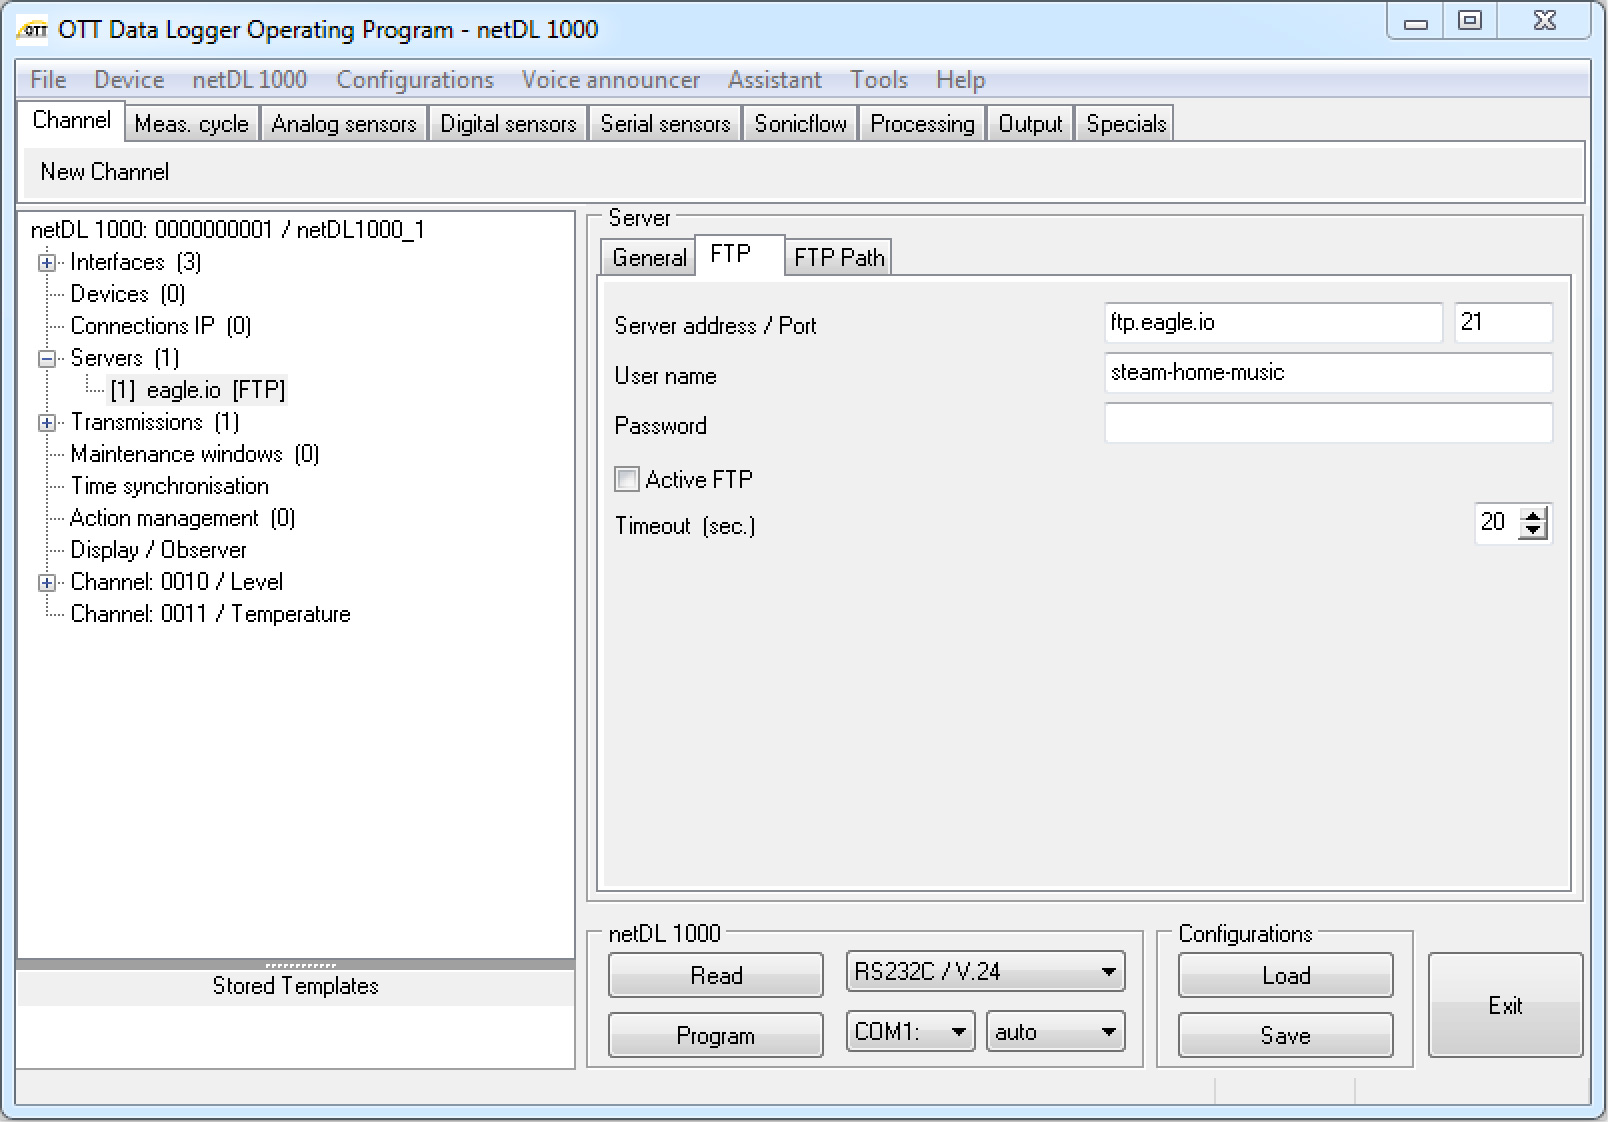
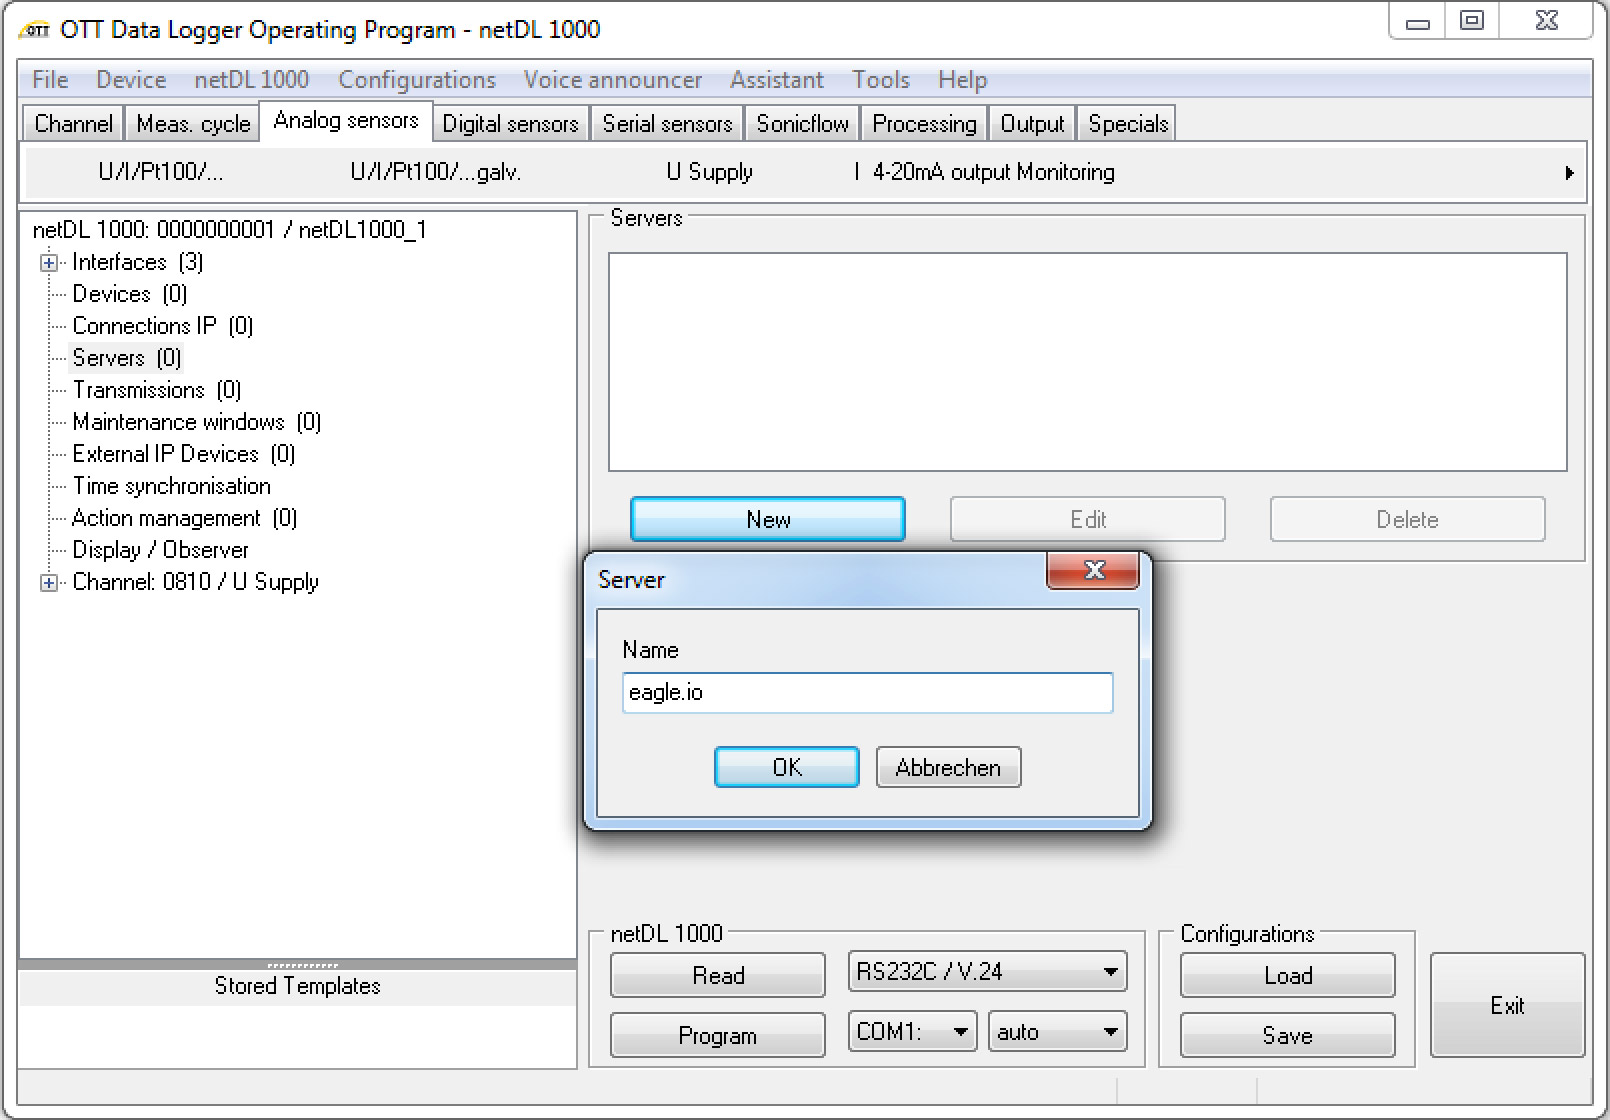
update OTT netDL device configuration guide

Changed region(s): [[0.0, 0.0, 1.0, 1.0]]

diff --git a/source/topics/device_configuration/ott_netdl/index.rst b/source/topics/device_configuration/ott_netdl/index.rst
@@ -144,20 +144,7 @@ Use the OTT Data Logger Operating Program to configure the netDL logger for comm
 
     .. image:: ott_netdl_device_1.jpg
 
-The following settings should be assigned to the FTP section:
-
-Server address
-    ftp.eagle.io
-Port
-    21
-User name
-    Use the unique *FTP user* generated during Data Source creation.
-Password
-    Use the password you assigned during Data Source creation (or leave blank for none).
-FTP Path 
-    Leave blank
-
-2. Create a new *Transmission* (Transmission Internet) and configure the *Server 1* option to use the Server item created in the previous step. Navigate to the *Data Transmission* tab and specify the data transmission cycle for frequency of uploads. Set the *Data format* to *Custom-built* with no compression. 
+2. Change to the FTP tab.
 
 .. only:: not latex
 
@@ -172,11 +159,122 @@ FTP Path
 
     .. image:: ott_netdl_device_2.jpg
 
-Switch to the *Data transmission 2* tab and enter the appropriate custom-built code which is used to format the data with multiple parameter/channel values per line. An example format which includes values for channels 10 and 11::
+The following FTP settings should be assigned:
+
+Server address
+    ftp.eagle.io
+Port
+    21
+User name
+    Use the unique *FTP user* generated during Data Source creation.
+Password
+    Use the password you assigned during Data Source creation (or leave blank for none).
+FTP Path 
+    Leave blank
+
+3. Create a new *Transmission* and select *Transmission Internet* as the type.
+
+.. only:: not latex
+
+    .. image:: ott_netdl_device_3.jpg
+        :scale: 50 %
+
+    | 
+
+.. only:: latex
+    
+    | 
+
+    .. image:: ott_netdl_device_3.jpg
+
+4. Configure the *Server 1* option to use the newly created Server. ie. eagle.io
+
+.. only:: not latex
+
+    .. image:: ott_netdl_device_4.jpg
+        :scale: 50 %
+
+    | 
+
+.. only:: latex
+    
+    | 
+
+    .. image:: ott_netdl_device_4.jpg
+
+5. Change to the *Data Transmission* tab and specify the *Cycle Standard* which sets the frequency of uploads (ie. 5min). Set the *Data format* to *Custom-built* with no compression. 
+
+.. only:: not latex
+
+    .. image:: ott_netdl_device_5.jpg
+        :scale: 50 %
+
+    | 
+
+.. only:: latex
+    
+    | 
+
+    .. image:: ott_netdl_device_5.jpg
+
+6. Switch to the *Data transmission 2* tab and enter the appropriate custom-built code which is used to format the data with multiple parameter/channel values per line.
+
+.. only:: not latex
+
+    .. image:: ott_netdl_device_6.jpg
+        :scale: 50 %
+
+    | 
+
+.. only:: latex
+    
+    | 
+
+    .. image:: ott_netdl_device_6.jpg
+
+
+An example format which includes values for channels 10 and 11::
     
     <STATION>;<DATE>;<TSTD><TMIN><FOR 0>;<GB0010;4;1;0;1>;<GB0011;4;1;0;1><ENDFOR><EXT>
 
-Refer to your OTT netDL `user manual <http://www.ott.com>`_ for help with custom-built transmission code.
+This example will output a file with contents similar to::
+    
+    0000000700;2014 11 18;0300;1.275;18.70 
+
+Description of Custom Built format (extract from OTT support)::
+
+    Control characters start with '^'
+    ^M means CR + line feed.
+    ^H means backspace (act. Write pointer -1).
+
+    <STATION> Station identifier
+
+    Date/time refers to the build time of the message, normally 5 mins before transmission time.
+    <DATE> will be replaced with the actual date in ANSI-format ‘JJJJ MM TT’, e. g. 2000 01 01
+    <TSTD x> actual hour; 'x' means a value which will be substracted.
+    <TMIN x> actual minute; 'x' means a value which will be substracted.
+    <DTIME x> actual time (Date, hour, minute; 'x' will be substracted.
+
+    <FOR from[;to]> 'from' and 'to' refers to the data stored in the logger. 
+    0 refers to the last stored value, 1 is the value before and so on. 
+    If no 'to' value specified it will be set to 0 (so to the last stored value). 
+    The 'from' value has to be higher than 'to' for correct chronological ordering.
+
+    Sensor/Channel output
+    <GBnr;s[;factor][;Offset][;Out]>  
+    Channel number, transmitted characters per value, factor, offset, output format
+    With 'factor' and 'Offset' it is possible to convert degrees Celsius to Fahrenheit.
+    The conversion works as following: New value = old value * factor + offset.
+    Out: output format
+    0 = without decimal point (default)
+    1 = measuring value with decimal point
+    2 = Included for ZRXP formats (ANSI Date/time value, <cr><lf>)
+    
+    <ENDFOR> end of FOR-loop; repeat until all data defined in 'for' command is output.
+
+    <EXT> extention of file. CST by default but can be changed to CSV with <EXTcsv>
+
+Refer to your OTT netDL `user manual <http://www.ott.com>`_ or contact `OTT support <http://www.ott.com/en-us/contact/>`_ for help with custom-built transmission code.
 
 .. note:: 
     Use the :ref:`Events <view-events>` view with the detail level set to *Debug* for reviewing communication history and diagnosing configuration issues.
